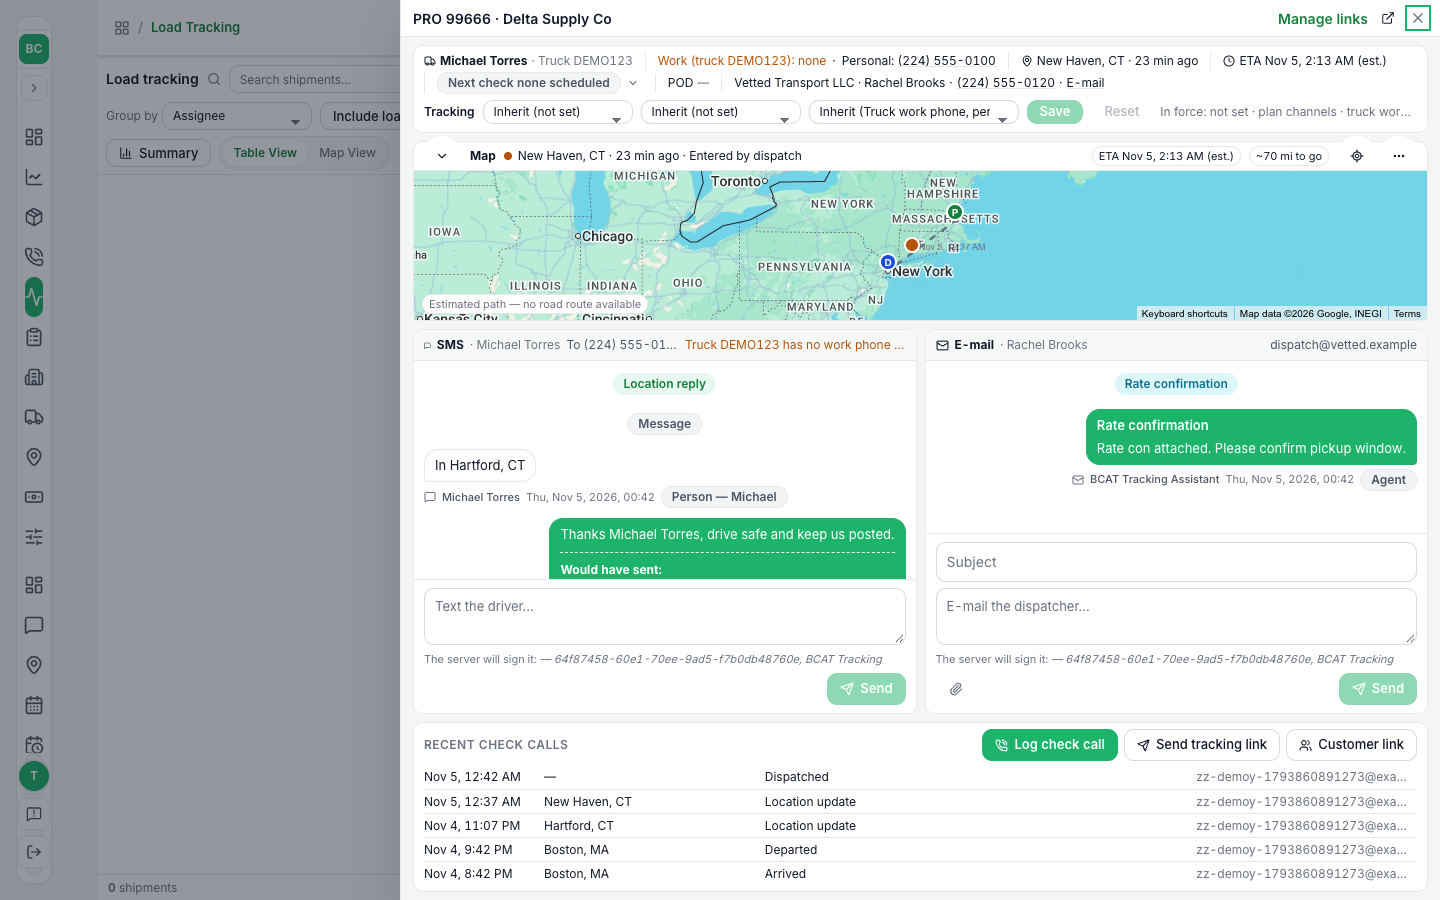
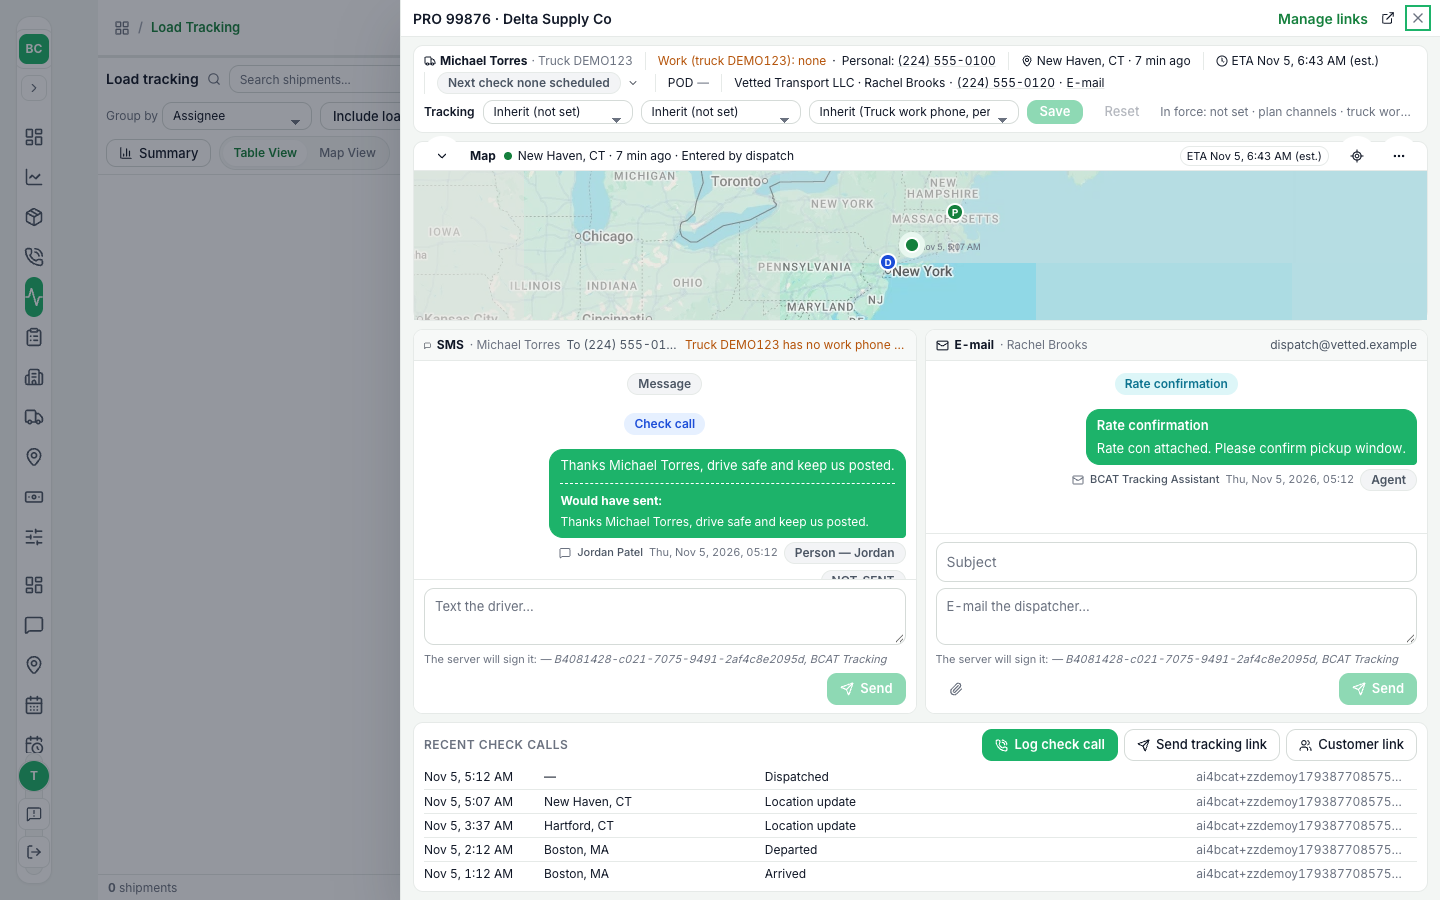
docs: demo walkthrough re-verified after P reset (seed now 99865-99880), Spot inbox quoter screens, BUILD_LOG

diff --git a/Docs/tms-build/DEMO_WALKTHROUGH.md b/Docs/tms-build/DEMO_WALKTHROUGH.md
@@ -6,7 +6,7 @@ Dev only: https://dev.d3dejqzs77khq6.amplifyapp.com. Everything below was driven
 
 1. Sign in at https://dev.d3dejqzs77khq6.amplifyapp.com with your own login (the temp identities are gone). Use an ADMIN account so every nav row shows.
 2. ZZ records to click through (all labelled **ZZ DEMO**, none are real PROs): brokered shipment **99671** (https://dev.d3dejqzs77khq6.amplifyapp.com/tms/shipments/shp-90460179-4789-44a3-98d0-691662ae6b48), Ivan Cartage shipment **99672** (https://dev.d3dejqzs77khq6.amplifyapp.com/tms/shipments/shp-f05d7ba6-1954-4720-8007-1268426798b3), invoice **20006**, carrier **ZZ DEMO Carrier 986251**, driver **ZZ DEMO Driver 986251**, customer **ZZ DEMO Customer 1793860986251**, division **ZZ DEMO Brokerage 1793860986251**. Earlier rehearsal runs also left older ZZ divisions in the Intake tab strip and the Divisions page; ignore them.
-3. Shipments board **Demo** chip: https://dev.d3dejqzs77khq6.amplifyapp.com/tms/shipments?demo=1 shows only ZZ DEMO rows. The seeded demo shipments (Settings > Demo, after Reset demo data) are 99655-99670; the in-transit ones (e.g. PRO 99666) are the best for the Tracking drawer.
+3. Shipments board **Demo** chip: https://dev.d3dejqzs77khq6.amplifyapp.com/tms/shipments?demo=1 shows only ZZ DEMO rows. The seeded demo shipments (Settings > Demo, after Reset demo data) are 99865-99880; the in-transit ones (e.g. PRO 99876) are the best for the Tracking drawer.
 4. Real e-mail: the rate con, the per-load thread reply and the invoice really went through SES to **ai4bcat@gmail.com** only (allow-list). Check that inbox. Everything else is STUB: DAT/Truckstop postings, Twilio SMS (texts show NOT SENT with the exact text), Google OAuth (not connected: Spot inbox runs on a SIMULATED inbox).
 5. MyCarrierPackets is **LIVE** (Validate: CONNECTED/OK). The script only did a read-only lookup of MC 274623; **no invitation was sent**.
 
@@ -53,13 +53,22 @@ DAT / Truckstop posting (STUB), Twilio SMS and voice (STUB), Google OAuth (not c
 
 ## Known gaps and defects
 
-1. **Tracking drawer white-screens on any shipment whose thread has an inbound reply** (`e.attachments.map is not a function`). Fix written and tested (`messageAttachments` in `src/lib/shipmentThread.ts`, used by `listShipmentMessages`); **needs a frontend deploy**. Until then the demo's drawer shot is taken on the seeded in-transit shipment 99666; do not open the Tracking drawer or Tracking tab on 99671.
-2. **Spot inbox shows "Unauthorized: could not resolve caller"** for the throwaway admin in the browser, though the same login succeeds against the same action over the API. Not diagnosed: Ryne should check it with his own login (connect the simulated inbox or Add request); the suggested response / Copy / Open in Gmail / Mark won-lost / Rate intelligence-in-drawer were therefore not captured.
+1. **Tracking drawer white-screens on any shipment whose thread has an inbound reply** (`e.attachments.map is not a function`). Fix written and tested (`messageAttachments` in `src/lib/shipmentThread.ts`, used by `listShipmentMessages`); **needs a frontend deploy**. Until then the demo's drawer shot is taken on the seeded in-transit shipment 99876; do not open the Tracking drawer or Tracking tab on 99671.
+2. **(FIXED on job 175, kept for history) Spot inbox showed "Unauthorized: could not resolve caller"** for the throwaway admin in the browser, though the same login succeeds against the same action over the API. Not diagnosed: Ryne should check it with his own login (connect the simulated inbox or Add request); the suggested response / Copy / Open in Gmail / Mark won-lost / Rate intelligence-in-drawer were therefore not captured.
 3. **Dispatch gate on the four driver fields** was not exercised: the brokered load was booked with the driver fields, and the roster driver carries them for own-asset. Ladder shows the last rung ticked.
 4. The ZZ carrier cannot be set ACTIVE by a person (only MCP's completed status does), so it was created with MCP status ACCEPTABLE to stand in for the sync. The "rate con refused until the packet is complete" refusal was therefore not re-shown this run (it was on job 145).
 5. Carrier bill approve needs a complete ACH payee.
-6. Screenshot 06/10 are the same ZZ carrier profile (the "not invited" state is no longer reachable because status order changed).
+6. Screenshots 06/10 are the same ZZ carrier profile (the "not invited" state is no longer reachable because status order changed).
 
 ## Defects found, fixed, verified earlier (jobs 146-147)
 
 POD review IAM, intake PO code, check-call index key, per-load plan, customer upsert, Demo chip: all verified live on jobs 146/147 and still fine on 171 (intake-created shipment carries `PO`; "Run check call now" on a delivered load returned "The load is not moving").
+
+## Spot inbox quoter (captured on job 175, simulated inbox)
+
+Spot inbox ({'https://dev.d3dejqzs77khq6.amplifyapp.com'}/tms/rates/spot): "Not connected / Gmail sign-in is not set up" until you press **Use simulated inbox**; then **Add request** (or Load sample mail). Open a request: STUB DAT market price and suggested rate, **Rate intelligence**, a read-only **Suggested response** with **Copy response**, **Open in Gmail** and **Open in mail app** (these need a reply address on the request), **Mark sent**, **Dismiss**, and outcome buttons (**Mark lost**; "Create the quote to mark this won"). The mailbox is never sent to or drafted in by the app.
+![spot inbox connected](screenshots/demo/55a-spot-inbox-simulated-connected.png) ![drawer](screenshots/demo/56-spot-request-drawer-suggested-response.png) ![suggested](screenshots/demo/56a-spot-suggested-response-and-copy.png) ![rate intelligence](screenshots/demo/56b-spot-rate-intelligence.png) ![actions](screenshots/demo/56c-spot-open-in-gmail-mark-won-lost.png) ![after mark sent](screenshots/demo/56d-spot-after-mark-sent-outcome.png) ![copy and gmail](screenshots/demo/56e-spot-copy-response-and-open-in-gmail.png)
+
+## State check after the devVerifyP reset (job 175)
+
+Intact and unchanged: 99671, 99672, invoice 20006, the MOVED intake item, the Demo chip rows. Only the seeded demo shipments were renumbered (now 99865-99880, in-transit PRO 99876). The seeded demo staff (Demo Carrier Rep 1/2, Team Lead, Sales Rep, Tracker, Accounting) are the standing demo accounts (created 2026-10-30) and are not removed; the extra profile rows keyed by e-mail address are the seed's own rows.

diff --git a/Docs/tms-build/BUILD_LOG.md b/Docs/tms-build/BUILD_LOG.md
@@ -1,5 +1,10 @@
 # TMS build log
 
+## 2026-11-05 - Demo state re-verified after P reset
+
+- devVerifyP's reset only renumbered the seeded demo shipments (now 99865-99880; was 99655-99670). Walkthrough records 99671, 99672, invoice 20006 and the MOVED intake item are intact, so no re-run was needed; walkthrough numbers updated. I re-ran RESET_DEMO_DATA with real staff ids; the demo staff accounts (created 10-30) were left, since the seed and walkthrough depend on them: nothing was deleted.
+- Spot inbox (job 175): the caller error is fixed; captured connect-simulated, suggested response, Copy response, Open in Gmail, rate intelligence, Mark sent/lost. 64 screenshots.
+
 ## 2026-11-05 - Load Review is the only gate (READY_TO_INVOICE closed) (dev tree edits; not committed or deployed by this entry)
 
 - Rule (Ryne): release to billing happens ONLY in Load Review. Closed the last door: single-shipment `READY_TO_INVOICE` (ArCard "Ready to invoice", Documents-tab strip, AR page "Release to billing") released without Load Review.
